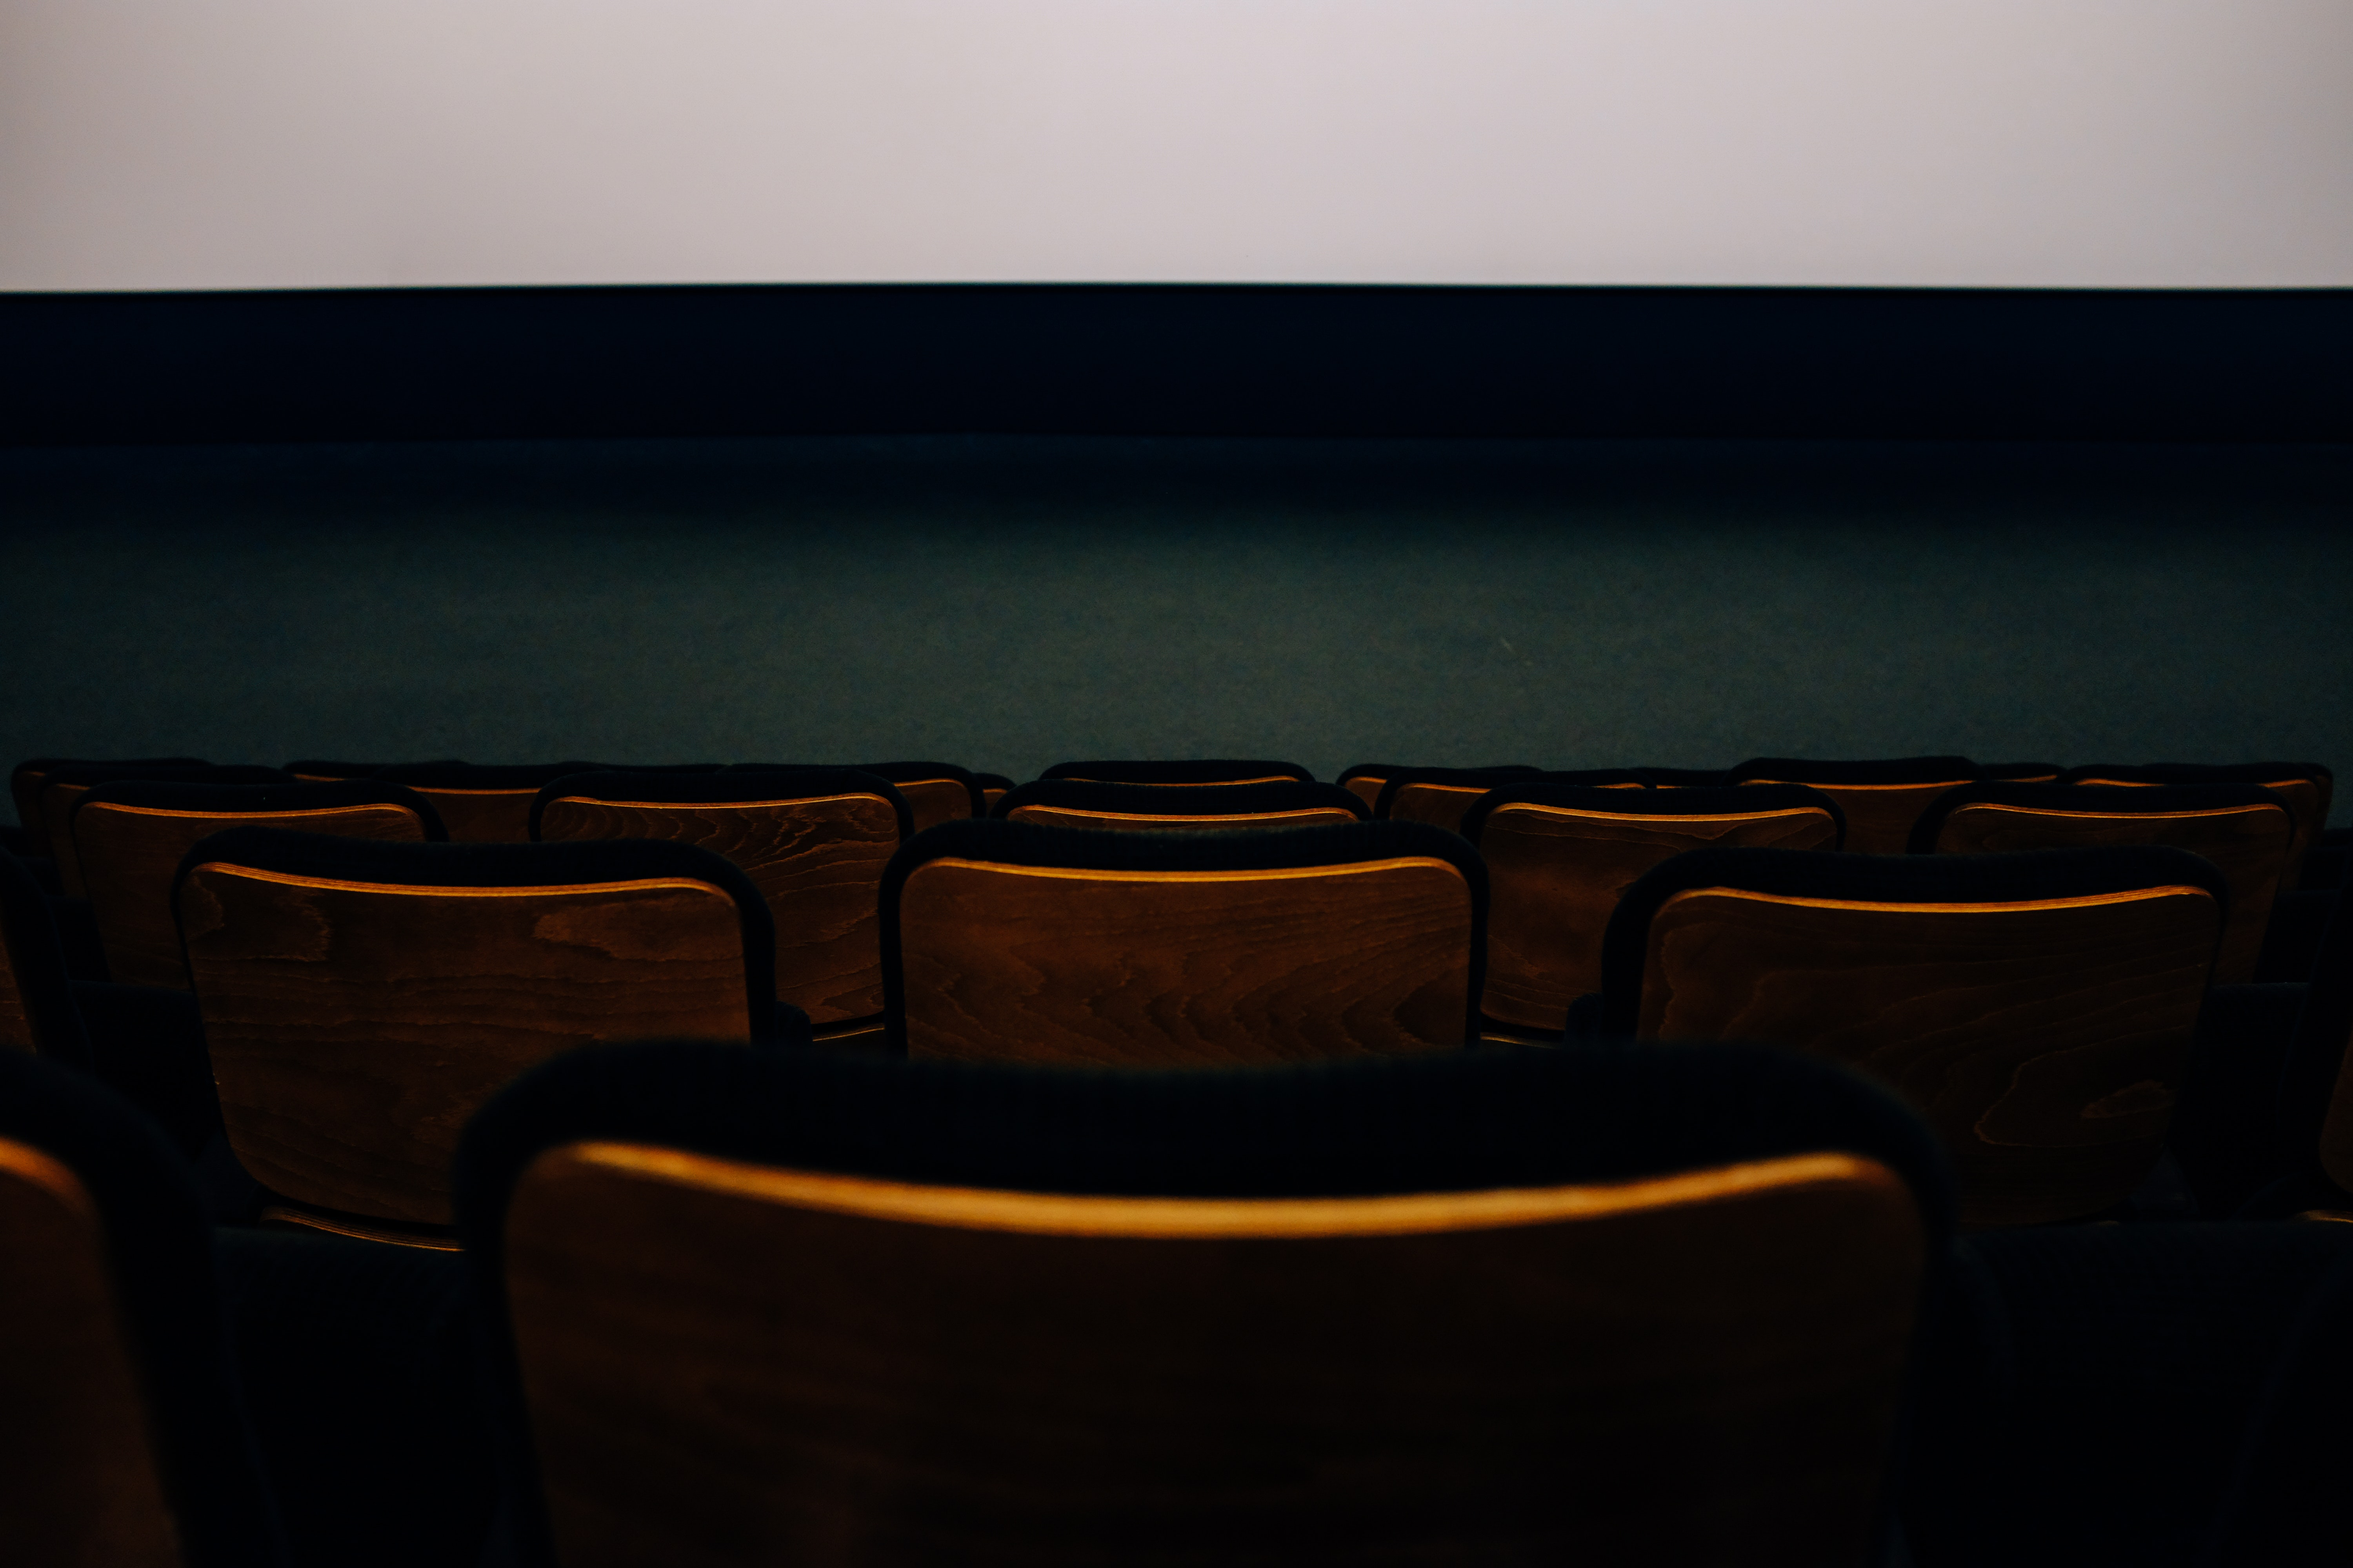
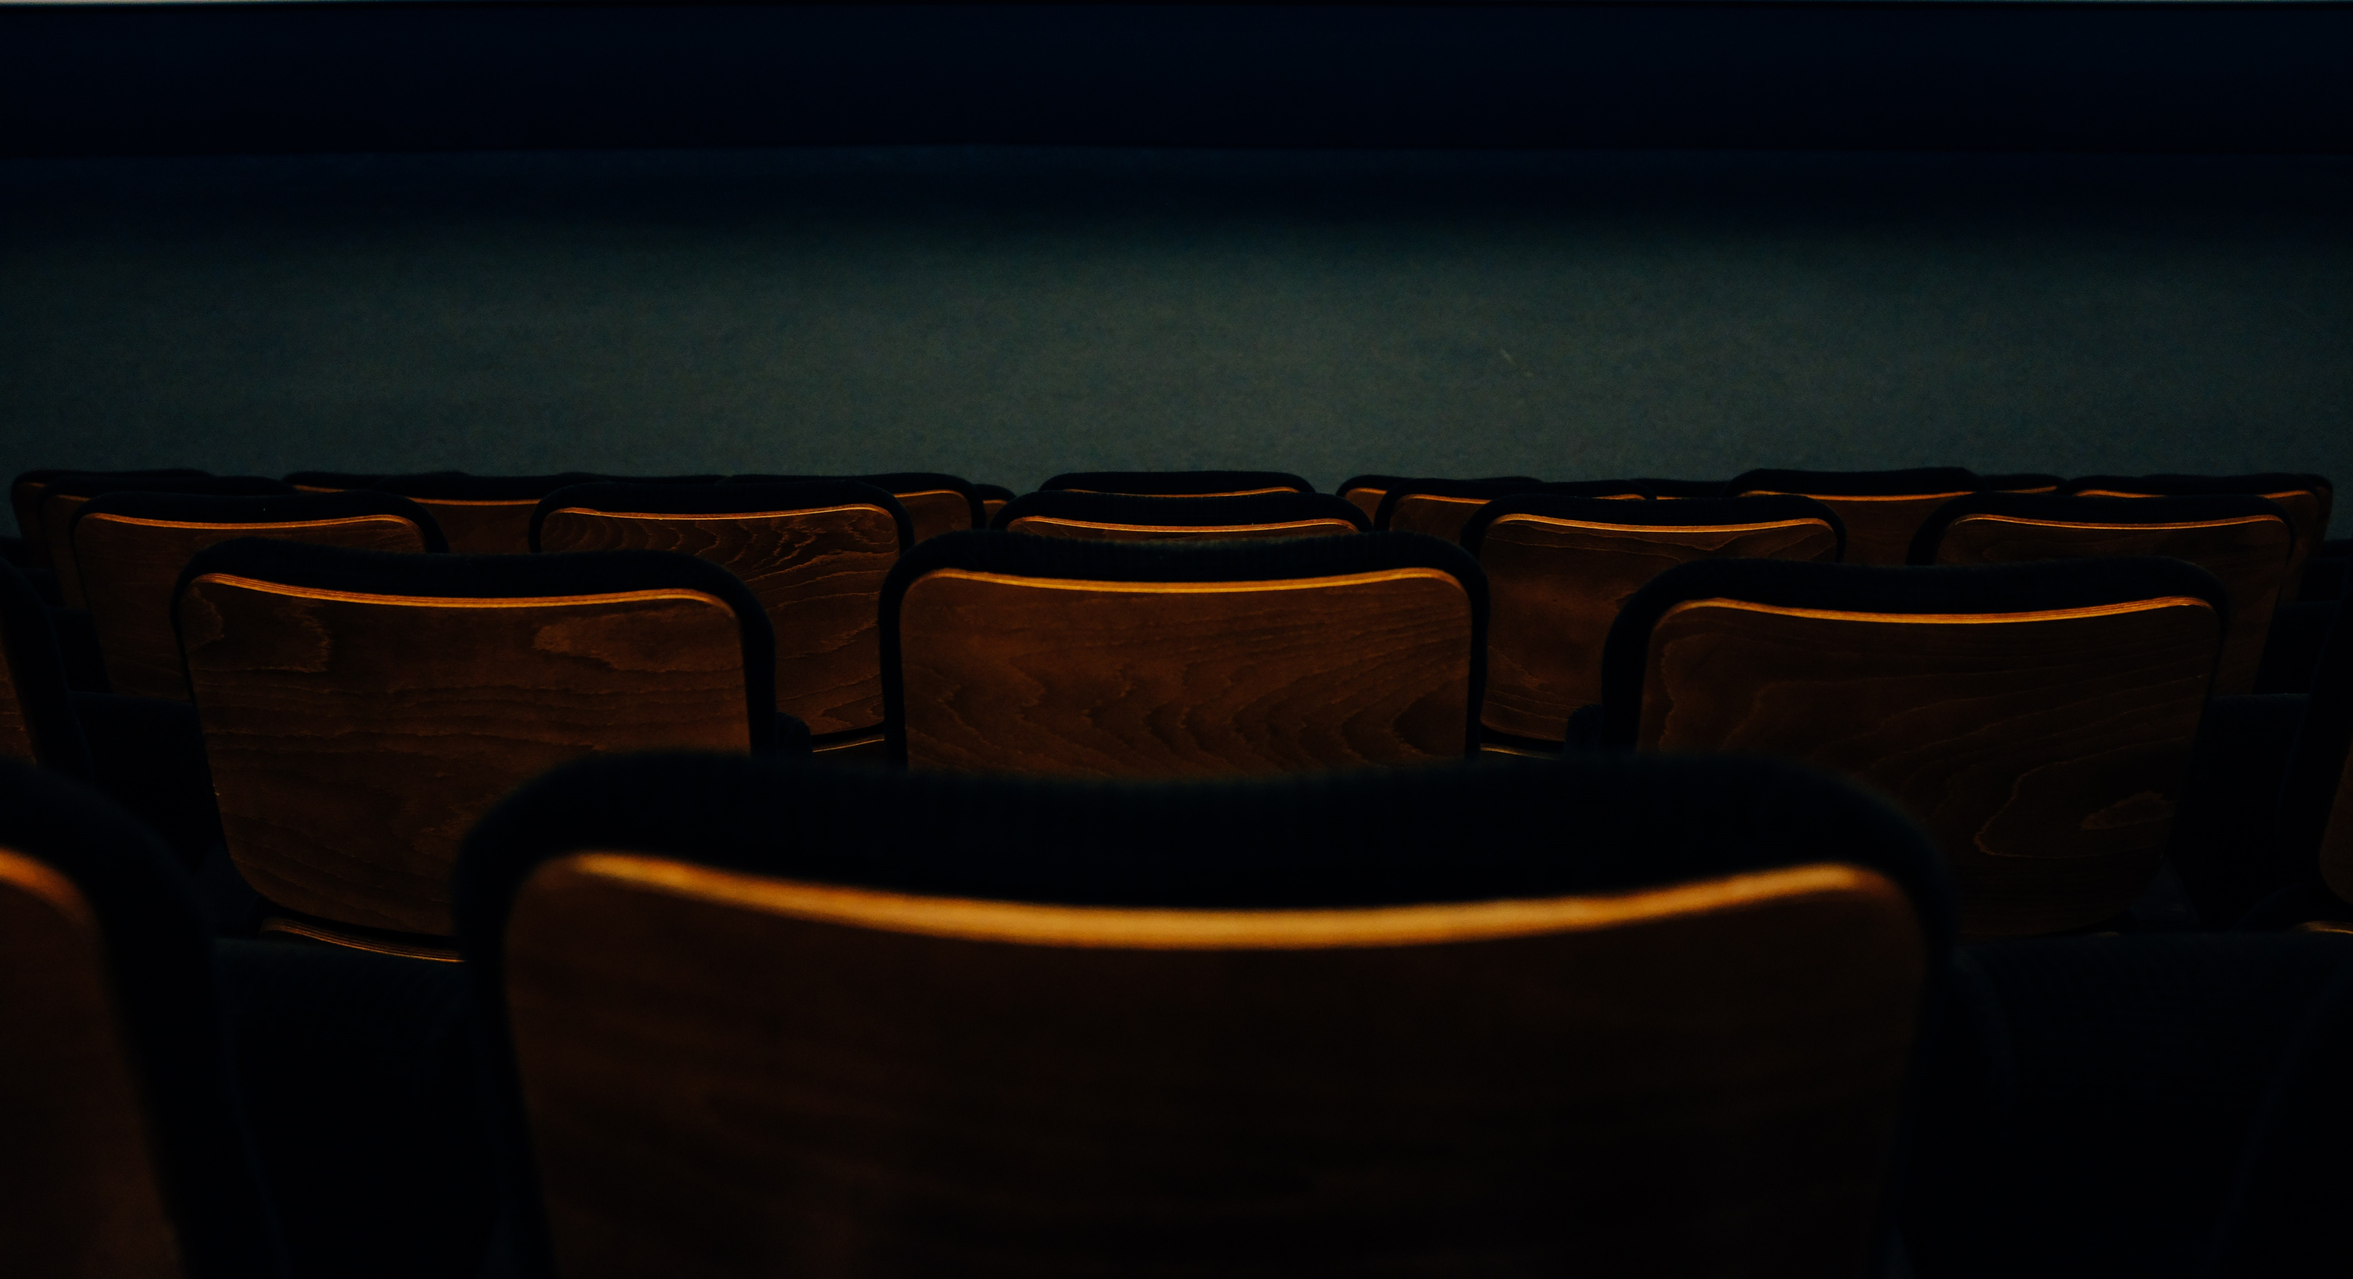
Background image of theatre added and also the NOW SHOWING cards added

diff --git a/index.css b/index.css
@@ -1,48 +1,129 @@
-body {
-    background-color: #131313;
-    margin: 0;
-    padding: 0;
-}
 
-nav {
-    background-color: black;
-    color: white;
-    display: flex;
-    justify-content: space-between;
-    align-items: center;
-    padding: 10px 20px;
-}
+        body {
+            background-color: #131313;
+            margin: 0;
+            padding: 0;
+        }
+        
+        nav {
+            background-color: black;
+            color: white;
+            display: flex;
+            justify-content: space-between;
+            align-items: center;
+            padding: 10px 20px;
+            border-radius: 0px;
+        }
+        
+        .logo img {
+            height: 40px; /* Adjust the height as needed */
+        }
+        
+        .nav-links {
+            list-style: none;
+            display: flex;
+            gap: 10px;
+        }
+        .nav-links a:hover {
+            background-color: #B76E22;
+            border: solid 1px white;
+            
+        }
+        
+        .nav-links li {
+            position: relative;
+        }
+        
+        .nav-links a {
+            color: white;
+            text-decoration: none; /* Remove underlines from links */
+        }
+        
+        .nav-links li:not(:last-child)::after {
+            content: "|";
+            position: absolute;
+            right: -5px;
+        }
+        
+        
 
-.logo {
-    /* Add your logo styling here */
-}
+       
+        .button {
+            background-color: #B76E22;
+            color: white;
+            padding: 10px 20px;
+            border: none;
+            border-radius: 5px;
+            cursor: pointer;
+        }
+        .button-wrapper {
+            display: flex;
+            gap: 15px;
+        }
 
-.nav-links {
-    list-style: none;
-    display: flex;
-    gap: 10px;
-}
+        .button-wrapper a:hover{
+            background-color: whitesmoke;
+            color: black;
+            
+            cursor: pointer;
+        }
 
-.nav-links li {
-    position: relative;
-}
+        .background {
+            background-image: url(/index_images/theatre.jpg);
+            background-size: cover;
+            background-position: center;
+            height: 100vh;
+            display: flex;
+            justify-content: center;
+            align-items: center;
+        }
+        
+        .content {
+            /* background-color: rgba(0, 0, 0, 0.7); Adds a semi-transparent black overlay to the background image */
+            color: white;
+            text-align:center;
+            padding: 20px;
+        }
+        
+        .background .content h1 {
+            font-size: 36px;
+        }
+        
+        .background .content p {
+            font-size: 18px;
+        }
 
-.nav-links li:not(:last-child)::after {
-    content: "|";
-    position: absolute;
-    right: -5px;
-}
+        .trailers .written h2{
+            color: white;
+            margin-top: 50px;
+            margin-left:40px; 
+            padding: 10px;
 
-.button {
-    background-color: #B76E22;
-    color: white;
-    padding: 10px 20px;
-    border: none;
-    border-radius: 5px;
-    cursor: pointer;
-}
+        }
 
-.button-wrapper {
-    display: flex;
-    gap: 10px;
-}
+        .trailers .cards{
+            margin-left: 40px;
+            margin-right: 40px;
+            text-align: center;
+        }
+
+        .trailers .cards img{
+            width: 200px;
+            height: 250px;
+            padding: 20px
+        }
+
+        
+
+
+        
+        
+        
+        
+        
+        
+        
+
+
+        
+    

diff --git a/index.html b/index.html
@@ -3,22 +3,56 @@
 <head>
     <meta charset="UTF-8">
     <meta name="viewport" content="width=device-width, initial-scale=1.0">
-    <title>Your Website</title>
+    <title>ShowTime</title>
     <link rel="stylesheet" href="/index.css">
+    <link rel="shortcut icon" href="/index_images/showtime_fav-removebg-preview.png" type="image/x-icon">
 </head>
 <body>
     <nav>
-        <div class="logo">Your Logo</div>
+        <div class="logo"><img src="/index_images/showtime-removebg-preview (1).png" alt="ShowTime"></div>
         <ul class="nav-links">
-            <li>About</li>
-            <li>Watch trailers</li>
-            <li>Services</li>
-            <li>Blogs</li>
+            <li><a href="#">About</a></li>
+            <li><a href="#">Watch trailers</a></li>
+            <li><a href="#">Services</a></li>
+            <li><a href="#">Blogs</a></li>
         </ul>
         <div class="button-wrapper">
-            <button class="button">Sign Up</button>
-            <button class="button">Sign In</button>
+            <a href="#"><button class="button">Sign Up</button></a>
+            <a href="#"><button class="button">Sign In</button></a>
         </div>
     </nav>
+
+
+    <div class="background">
+        <div class="content">
+            <h1>Unleash the magic of cinema from your fingertips!</h1>
+            <p>Explore captivating movie trailers, secure your seats hassle-free, and savor delightful snacks by using our all-inclusive web application.</p>
+        </div>
+    </div>
+
+    <br>
+    <br>
+
+    <div class="trailers">
+        <div class="written">
+            <h2>NOW SHOWING</h2>
+        </div>
+        <div class="cards">
+            <img src="/index_images/Fukrey-3-poster.jpeg" alt="">
+            <img src="/index_images/Jawan-poster_1655912386.jpg" alt="">
+            <img src="/index_images/Mission_Raniganj_film_poster.jpg" alt="">
+            <img src="/index_images/Kannaur Squad.jpg" alt="">
+        </div>
+        <div class="cards">
+            <img src="/index_images/Oppenheimer-Poster-691x1024.jpg" alt="">
+            <img src="/index_images/creator_poster.jpg" alt="">
+            <img src="/index_images/mi.jpg" alt="">
+            <img src="/index_images/gippy-grewal-carry-on-jatta-3-1229x1536.jpg" alt="">
+        </div>
+
+    </div>
+
+
+
 </body>
 </html>
